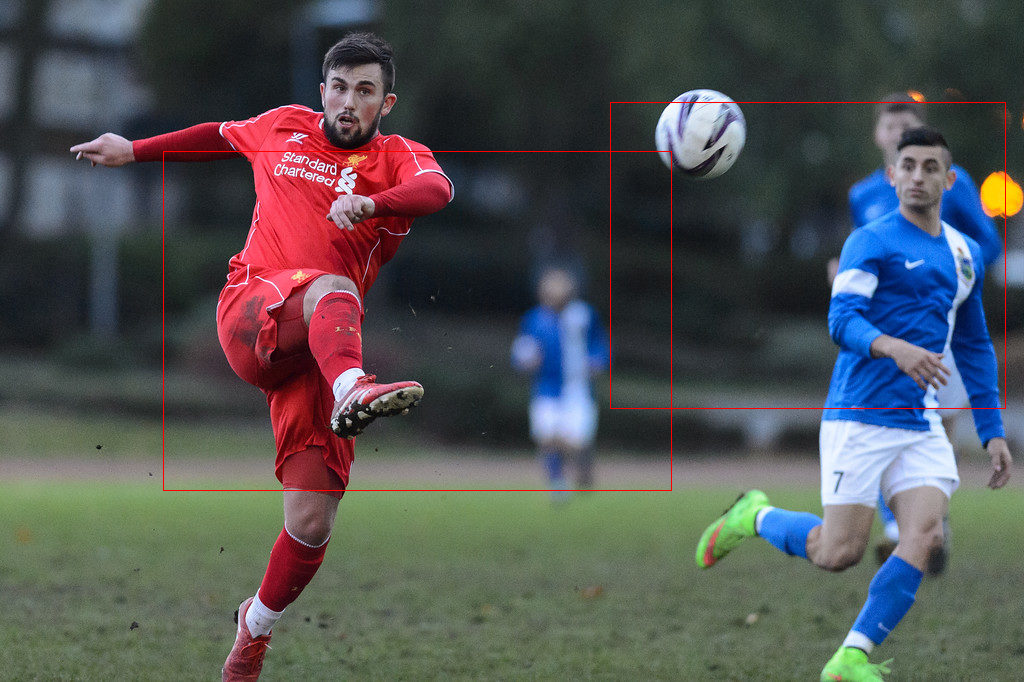
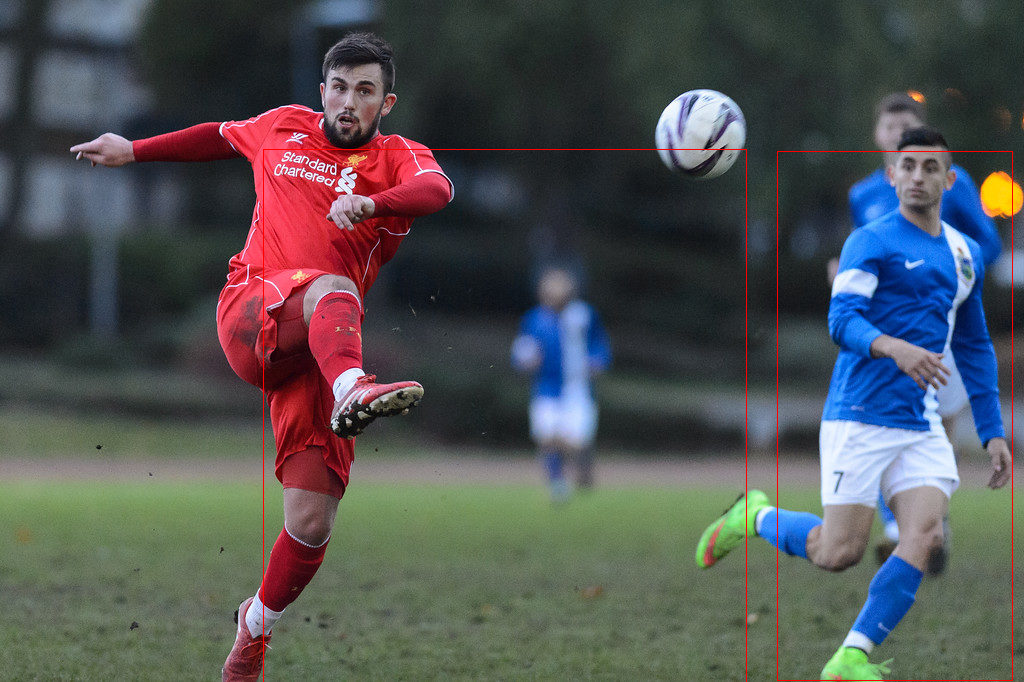
basic algorithm works with correct parameters

Changed region(s): [[0.5938, 0.2155, 0.6562, 0.2463], [0.25, 0.2155, 0.2812, 0.2463]]

diff --git a/ransac_bounding_boxes.py b/ransac_bounding_boxes.py
@@ -56,20 +56,20 @@ def non_max_suppression_fast(boxes, overlapThresh):
 		# compute the width and height of the bounding box
 		w = np.maximum(0, xx2 - xx1 + 1)
 		h = np.maximum(0, yy2 - yy1 + 1)
-		print(xx1, yy1, xx2, yy2)
+#		print(xx1, yy1, xx2, yy2)
 #		print(w)
 #		print(h)
 		# compute the ratio of overlap
 		overlap = (w * h) / area[idxs[:last]]
 		# delete all indexes from the index list that have
-		print(overlap)
+#		print(overlap)
 		idxs = np.delete(idxs, np.concatenate(([last],
 			np.where(overlap > overlapThresh)[0])))
 	# return only the bounding boxes that were picked using the
 	# integer data type
 	return boxes[pick].astype("int"), x1
 
-def ransac_bounding_boxes(img, min_box=0.05, max_box=0.5, threashold=2000000,
+def ransac_bounding_boxes(img, min_box=0.05, max_box=0.8, threashold=2000000,
                           samples=100000, box_colour=(0, 0, 255),
                           box_line_thickness=1):
 
@@ -109,10 +109,10 @@ def ransac_bounding_boxes(img, min_box=0.05, max_box=0.5, threashold=2000000,
     max_box_width = round(max_box * frame_width)
     max_box_height = round(max_box * frame_height)
 
-    for scale in range(2, -1, -1):
+    for scale in range(0, -1, -1):
         
-        if len(boxes) > 100:
-            break
+#        if len(boxes) > 100:
+#            break
 
         scale = 2**scale
 
@@ -124,8 +124,8 @@ def ransac_bounding_boxes(img, min_box=0.05, max_box=0.5, threashold=2000000,
 
         for box in range(samples):
 
-            if len(boxes) > 100:
-                break
+#            if len(boxes) > 100:
+#                break
 
             # pick random pixel - point 1
             x1 = random.randint(min_box_width, frame_width)
@@ -157,24 +157,24 @@ def ransac_bounding_boxes(img, min_box=0.05, max_box=0.5, threashold=2000000,
 
             if box_saliency > threashold:
 
-                area = (x1-x2) * (y1-y2)
+#                area = (x1-x2) * (y1-y2)
 
-                boxes.append((x2, y2, x1, y1))
-                boxes = sorted(boxes)
-                if len(boxes) > 100:
-                    boxes = boxes[:99]
+                boxes.append((xa, ya, xd, yd))
+#                boxes = sorted(boxes)
+#                if len(boxes) > 100:
+#                    boxes = boxes[:99]
 #    print(np.array(boxes))
-    new_boxes, x1 = non_max_suppression_fast(np.array(boxes), 0.4)
-    print(len(new_boxes))
+    new_boxes, x1 = non_max_suppression_fast(np.array(boxes), 0.01)
+#    print(len(new_boxes))
 #    print(x1)
     for box in new_boxes:
 
-        x1 = box[0]
-        y1 = box[1]
-        x2 = box[2]
-        y2 = box[3]
+        xa = box[0]
+        ya = box[1]
+        xd = box[2]
+        yd = box[3]
 
-        output = cv2.rectangle(output, (x1, y1), (x2, y2),
+        output = cv2.rectangle(output, (xa, ya), (xd, yd),
                                box_colour, box_line_thickness)
 
 
